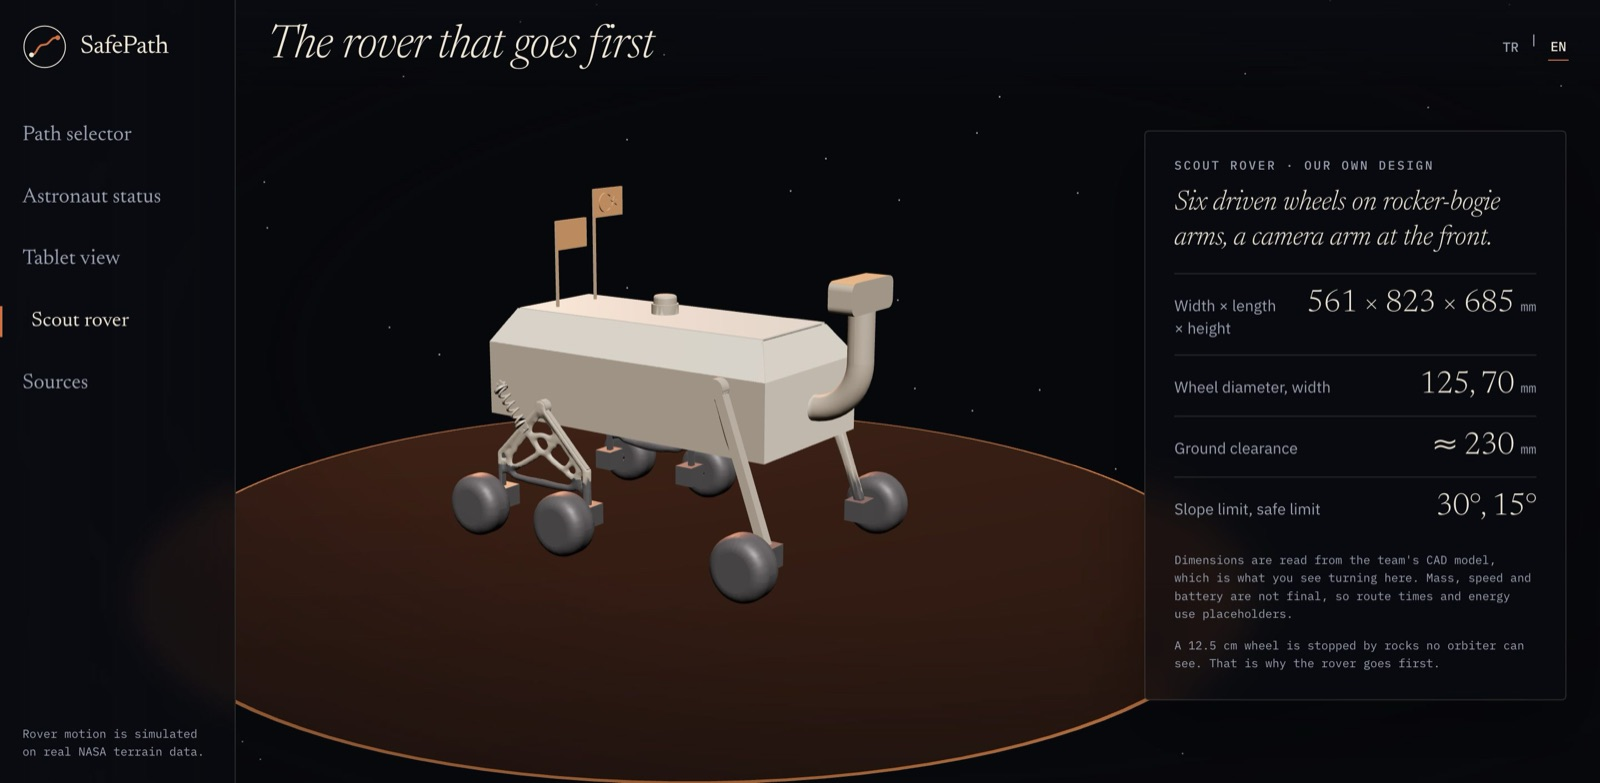
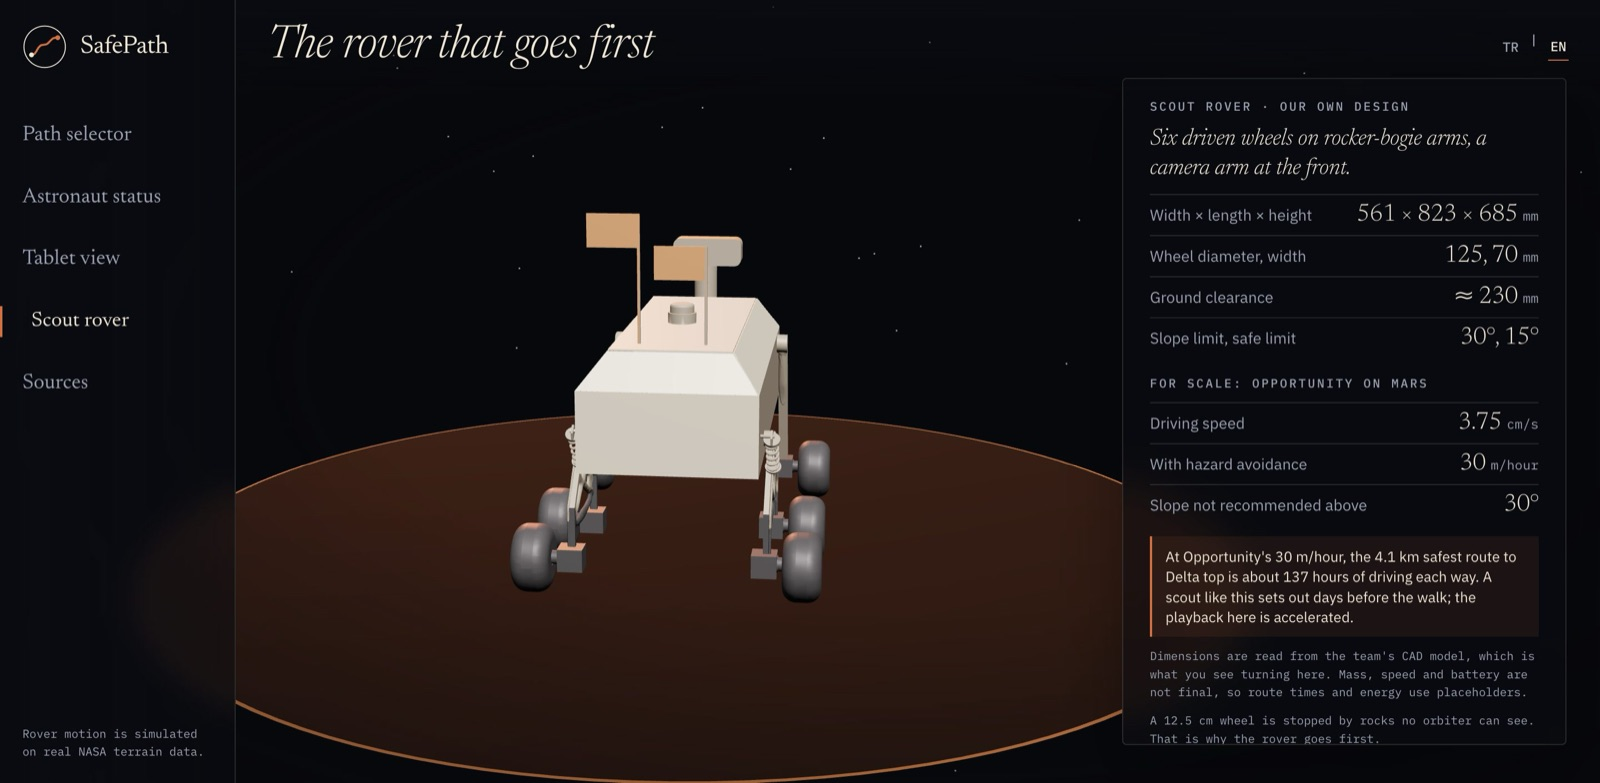
Gerçek rover karşılaştırması, görev saati ve yürüyüşe bağlı giysi göstergeleri
- Öncü rover: Opportunity'nin JPL makalesinden sürüş hızı, ilerleme hızı ve eğim sınırı; seçili rotanın gerçek sürüş süresi
- Rover sürüşünde hızlandırılmış oynatma etiketi ve görev saati
- Astronot: yürüyüş oynatması, oksijen ve giysi bataryası geçen süreye göre azalır
- Kaynakça: açılmayan Apollo belgesi linki arşiv kopyasıyla değiştirildi, JPL makalesi eklendi

diff --git a/web/app.js b/web/app.js
@@ -50,13 +50,18 @@ const I18N = {
     log_home_detour: 'Back at base. Detour +{d} m, recorded for the crew.',
     log_home: 'Back at base. No obstacle met on this route.',
     vitals_title: 'Suit telemetry', simulated: 'simulated',
-    v_breath: 'Breathing', v_heart: 'Heart rate', v_oxygen: 'Oxygen', v_battery: 'Suit battery', per_min: '/min',
+    v_breath: 'Breathing', v_heart: 'Heart rate', v_oxygen: 'Suit O₂ remaining', v_battery: 'Suit battery', per_min: '/min',
+    v_time: 'EVA elapsed', eva_play: 'Play the walk', eva_playing: 'Walking · accelerated playback', eva_replay: 'Play the walk again',
+    vitals_note: 'Oxygen and suit battery are drawn down over the 8 h suit design duration as the walk time passes. Heart rate and breathing are example values: at rest, then walking.',
+    clock: 'Accelerated playback · mission time T+{h}:{m} at the placeholder rover speed',
+    real_title: 'For scale: Opportunity on Mars', real_speed: 'Driving speed', real_rate: 'With hazard avoidance', real_mh: 'm/hour', real_slope: 'Slope not recommended above',
+    real_note: 'At Opportunity\'s 30 m/hour, the {km} km safest route to {target} is about {h} hours of driving each way. A scout like this sets out days before the walk; the playback here is accelerated.',
     sound_on: 'Breathing sound on', sound_off: 'Breathing sound off',
     photo_credit: 'Apollo 11, AS11-40-5903. NASA.',
     forecast_title: 'Expected at end of traverse', forecast_route: '{target}, {route} route',
     f_oxygen: 'Oxygen left', f_walk: 'Round trip on foot', f_battery: 'Rover battery left', f_dose: 'Radiation dose', hours: 'h',
-    verdict_ok: 'Within limits. The {r}% oxygen reserve is kept.',
-    verdict_risk: 'Outside limits. The {r}% oxygen reserve is not kept.',
+    verdict_ok: 'Projected O₂ reserve retained: more than {r}% left at the end.',
+    verdict_risk: 'Projected O₂ reserve breached: less than {r}% left at the end.',
     forecast_note: 'Oxygen uses an 8 h suit and Apollo walking speed. Rover battery uses placeholder numbers. Radiation is the mean absorbed dose rate Curiosity measured in Gale crater, 2012 to 2026.',
     no_target: 'Choose a target in Path selector first.',
     t_title: 'Along the route', t_slope: 'Slope °', t_elev: 'Elevation m', t_ground: 'Ground (TI)',
@@ -116,13 +121,18 @@ const I18N = {
     log_home_detour: 'Üsse dönüldü. Sapma +{d} m, mürettebat için kaydedildi.',
     log_home: 'Üsse dönüldü. Bu rotada engelle karşılaşılmadı.',
     vitals_title: 'Giysi telemetrisi', simulated: 'benzetim',
-    v_breath: 'Nefes', v_heart: 'Kalp ritmi', v_oxygen: 'Oksijen', v_battery: 'Giysi bataryası', per_min: '/dk',
+    v_breath: 'Nefes', v_heart: 'Kalp ritmi', v_oxygen: 'Kalan giysi O₂', v_battery: 'Giysi bataryası', per_min: '/dk',
+    v_time: 'Geçen yürüyüş süresi', eva_play: 'Yürüyüşü oynat', eva_playing: 'Yürüyor · hızlandırılmış', eva_replay: 'Yürüyüşü yeniden oynat',
+    vitals_note: 'Oksijen ve giysi bataryası, yürüyüş süresi ilerledikçe 8 saatlik giysi tasarım süresine göre azalır. Kalp ritmi ve nefes örnek değerlerdir: dinlenmede, sonra yürürken.',
+    clock: 'Hızlandırılmış oynatma · görev süresi T+{h}:{m} (varsayım rover hızıyla)',
+    real_title: 'Ölçek için: Mars\'ta Opportunity', real_speed: 'Sürüş hızı', real_rate: 'Engelden kaçınarak', real_mh: 'm/saat', real_slope: 'Önerilmeyen eğim',
+    real_note: 'Opportunity\'nin saatte 30 metresiyle, {target} hedefine {km} km\'lik en güvenli rota tek yön yaklaşık {h} saat sürüş demek. Böyle bir öncü, yürüyüşten günler önce yola çıkar; buradaki oynatma hızlandırılmıştır.',
     sound_on: 'Nefes sesi açık', sound_off: 'Nefes sesi kapalı',
     photo_credit: 'Apollo 11, AS11-40-5903. NASA.',
     forecast_title: 'Yürüyüş sonunda beklenen', forecast_route: '{target}, {route} rota',
     f_oxygen: 'Kalan oksijen', f_walk: 'Yürüyerek gidiş dönüş', f_battery: 'Kalan rover bataryası', f_dose: 'Radyasyon dozu', hours: 'sa',
-    verdict_ok: 'Sınırlar içinde. %{r} oksijen payı korunuyor.',
-    verdict_risk: 'Sınırların dışında. %{r} oksijen payı korunmuyor.',
+    verdict_ok: 'Öngörülen O₂ payı korunuyor: yürüyüş sonunda %{r}\'den fazlası kalıyor.',
+    verdict_risk: 'Öngörülen O₂ payı aşılıyor: yürüyüş sonunda %{r}\'den azı kalıyor.',
     forecast_note: 'Oksijen 8 saatlik giysi ve Apollo yürüme hızına göre. Rover bataryası varsayım değerlerle. Radyasyon, Curiosity\'nin Gale kraterinde 2012–2026 arasında ölçtüğü ortalama soğurulan doz hızı.',
     no_target: 'Önce Patika seçici\'den bir hedef seçin.',
     t_title: 'Yol boyu değerler', t_slope: 'Eğim °', t_elev: 'Yükseklik m', t_ground: 'Zemin (IA)',
@@ -167,7 +177,9 @@ const SOURCES = [
   ['crew', 'xEMU spacesuit testing', 'NASA Technical Reports Server',
     { en: 'The 8 hour suit duration behind the oxygen check.', tr: 'Oksijen kontrolündeki 8 saatlik giysi süresi.' }, 'https://ntrs.nasa.gov/citations/20240004887'],
   ['crew', 'Apollo lunar surface consumables document', 'NASA · Apollo Lunar Surface Journal',
-    { en: 'Planned walking speed of 3.3 km/h and the 20% walk-back reserve. Measured on the Moon.', tr: '3,3 km/saat planlanan yürüme hızı ve %20 dönüş payı. Ay\'da ölçüldü.' }, 'https://www.nasa.gov/wp-content/uploads/static/history/alsj/19790073512_1979073512.pdf'],
+    { en: 'Planned walking speed of 3.3 km/h and the 20% walk-back reserve. Measured on the Moon. NASA\'s original page has moved; the link is an archived copy.', tr: '3,3 km/saat planlanan yürüme hızı ve %20 dönüş payı. Ay\'da ölçüldü. NASA\'nın özgün sayfası taşındı; link arşiv kopyasıdır.' }, 'https://web.archive.org/web/20250721201910/https://www.nasa.gov/wp-content/uploads/static/history/alsj/19790073512_1979073512.pdf'],
+  ['crew', 'Mars Exploration Rover Surface Operations: Driving Opportunity at Meridiani Planum', 'Biesiadecki, J. J., et al. (2005) · NASA Jet Propulsion Laboratory',
+    { en: 'A real rover for scale: 3.75 cm/s driving speed, 30 m/hour with hazard avoidance, driving above 30° not recommended.', tr: 'Ölçek için gerçek bir rover: 3,75 cm/s sürüş hızı, engelden kaçınarak saatte 30 m, 30° üstünde sürüş önerilmiyor.' }, 'https://www-robotics.jpl.nasa.gov/media/documents/biesiadecki_driving05.pdf'],
   ['crew', 'Perseverance rover components', 'NASA Science',
     { en: 'Reference for rover slope limits: 45° without tipping, drivers avoid more than 30°.', tr: 'Rover eğim sınırları için başvuru: 45° devrilmeden dayanım, sürücüler 30° üstünden kaçınır.' }, 'https://science.nasa.gov/mission/mars-2020-perseverance/rover-components/'],
   ['method', 'D* Lite', 'Koenig, S. and Likhachev, M. (2002) · AAAI Conference on Artificial Intelligence',
@@ -196,7 +208,7 @@ const COLORS = { fastest: '#f2b33d', safest: '#5fd0b5', efficient: '#8fa8ff' };
 const SIZE = 1000;   // world units across the mission area (1 unit = 10 m)
 const RELIEF = 2;    // vertical exaggeration
 const JEZERO = { lat: 18.47, lon: 77.41 };
-const state = { view: 'path', phase: 'globe', target: null, routeId: 'safest', busy: false,
+const state = { view: 'path', phase: 'globe', target: null, routeId: 'safest', busy: false, clockMin: 0,
                 sound: true, obstacleMet: new Set(), drive: null };
 let mission, height;
 
@@ -484,7 +496,12 @@ function scenarioApplies() {
   return state.target.id === mission.scenario.target && state.routeId === mission.scenario.profile;
 }
 
+function drawRealNote() {
+  const tg = state.target ?? mission.targets[0], r = tg.routes.find((q) => q.id === 'safest');
+  $('spec-real').textContent = t('real_note', { km: (r.distance_m / 1000).toFixed(1), target: tg.name, h: Math.round(r.distance_m / 30) });
+}
 function drawPanels() {
+  drawRealNote();
   if (!state.target) {
     $('f-route').textContent = t('no_target'); $('t-route').textContent = t('no_target');
     return;
@@ -529,14 +546,17 @@ function log(key, vars, warn) {
   $('log').appendChild(p); $('log').hidden = false;
   while ($('log').children.length > 4) $('log').firstChild.remove();
 }
-function drive(points, seconds) {
+function drive(points, seconds, minutes = 0) {
   const cum = [0];
   for (let i = 1; i < points.length; i++) cum.push(cum[i - 1] + points[i].distanceTo(points[i - 1]));
-  return new Promise((done) => { state.drive = { points, cum, seconds, t: 0, done }; });
+  return new Promise((done) => { state.drive = { points, cum, seconds, minutes, t: 0, done }; });
 }
 function stepDrive(dt) {
   const d = state.drive; if (!d) return;
+  const before = d.t;
   d.t = Math.min(d.t + dt / d.seconds, 1);
+  state.clockMin += (d.t - before) * d.minutes;
+  $('clock').textContent = t('clock', { h: Math.floor(state.clockMin / 60), m: String(Math.floor(state.clockMin % 60)).padStart(2, '0') });
   const e = d.t < 0.5 ? 2 * d.t * d.t : 1 - 2 * (1 - d.t) * (1 - d.t);
   const s = e * d.cum[d.cum.length - 1];
   let i = 1; while (i < d.cum.length - 1 && d.cum[i] < s) i++;
@@ -559,14 +579,16 @@ async function sendRover() {
   const r = route(), sc = mission.scenario, key = state.target.id + r.id;
   const out = toPoints(r.cells, 1.5, 2);
   rover.visible = true; rover.position.copy(out[0]);
+  state.clockMin = 0; $('clock').hidden = false;
   log('log_depart', { route: t(r.id).toLowerCase() });
-  await drive(out, 7);
+  await drive(out, 7, r.rover_time_min);
   log('log_arrive', { target: state.target.name, km: (r.distance_m / 1000).toFixed(2), deg: r.max_slope_deg.toFixed(1) });
   await wait(900);
   log('log_return');
   if (scenarioApplies()) {
     const hit = sc.driven_cells.findIndex((c) => c[0] === sc.first_detection_cell[0] && c[1] === sc.first_detection_cell[1]);
-    await drive(toPoints(sc.driven_cells.slice(0, hit + 1), 1.5, 2), 2.6);
+    const back = r.rover_time_min * sc.driven_distance_m / sc.planned_distance_m, share = hit / sc.driven_cells.length;
+    await drive(toPoints(sc.driven_cells.slice(0, hit + 1), 1.5, 2), 2.6, back * share);
     obstacle.visible = true; state.obstacleMet.add(key);
     log('log_obstacle', {}, true);
     await wait(1100);
@@ -577,10 +599,10 @@ async function sendRover() {
     detour.renderOrder = 4; extraGroup.add(detour); reveal(detour, '#ffffff', 0, 1.1);
     log('log_replan', { n: sc.replans, s: sc.repair_total_s.toFixed(2), f: sc.fresh_plan_at_first_detection_s.toFixed(2) });
     await wait(900);
-    await drive(toPoints(sc.driven_cells.slice(hit), 1.5, 2), 6);
+    await drive(toPoints(sc.driven_cells.slice(hit), 1.5, 2), 6, back * (1 - share));
     log('log_home_detour', { d: sc.driven_distance_m - sc.planned_distance_m });
   } else {
-    await drive(out.slice().reverse(), 7);
+    await drive(out.slice().reverse(), 7, r.rover_time_min);
     log('log_home');
   }
   state.busy = false; $('send').disabled = false; $('send').textContent = t('send_rover');
@@ -624,7 +646,7 @@ const metres = (lat1, lon1, lat2, lon2) => {
   return Math.hypot((lat2 - lat1) * k * R, (lon2 - lon1) * k * R * Math.cos(lat1 * k));
 };
 function refreshTarget(reframe) {
-  drawRoutes(reframe); drawLedger(reframe); drawPanels(); setPrompt();
+  drawRoutes(reframe); drawLedger(reframe); drawPanels(); setPrompt(); resetEva();
   if (reframe) frameRoute();
 }
 function setPrompt() {
@@ -684,18 +706,24 @@ function sound(on) {
   if (!audio) return;
   if (on) { audio.ctx.resume(); breathe(); breathTimer = setInterval(breathe, 4600); } else audio.ctx.suspend();
 }
-let vitalsClock = 0, suitOxygen = 96, suitBattery = 91, beat = 0;
-function stepVitals(dt, now) {
-  vitalsClock += dt;
-  if (vitalsClock > 1) {
-    vitalsClock = 0;
-    suitOxygen = Math.max(suitOxygen - 0.004, 20); suitBattery = Math.max(suitBattery - 0.003, 20);
-    $('v-heart').textContent = Math.round(78 + 4 * Math.sin(now / 9000) + (Math.random() - 0.5) * 3);
-    $('v-breath').textContent = 13 + (Math.random() < 0.2 ? 1 : 0);
-    $('v-oxygen').textContent = suitOxygen.toFixed(1); $('v-battery').textContent = suitBattery.toFixed(1);
+// The walk is replayed on an accelerated clock; suit consumables follow the elapsed walk time.
+const eva = { p: 0, playing: false };
+const EVA_SECONDS = 18;
+let beat = 0;
+function resetEva() { eva.p = 0; eva.playing = false; $('eva-play').textContent = t('eva_play'); }
+function stepVitals(dt) {
+  if (eva.playing) {
+    eva.p = Math.min(eva.p + dt / EVA_SECONDS, 1);
+    if (eva.p >= 1) { eva.playing = false; $('eva-play').textContent = t('eva_replay'); }
   }
+  const hours = state.target ? eva.p * route().round_trip_walk_h : 0;
+  const left = Math.max(100 - hours / mission.crew.oxygen_h * 100, 0);
+  const heart = eva.playing ? 100 : 76;
+  $('v-time').textContent = `${Math.floor(hours)}:${String(Math.floor(hours % 1 * 60)).padStart(2, '0')}`;
+  $('v-heart').textContent = heart; $('v-breath').textContent = eva.playing ? 20 : 14;
+  $('v-oxygen').textContent = left.toFixed(1); $('v-battery').textContent = left.toFixed(1);
   const c = $('ecg'), x = c.getContext('2d'), w = c.width, h = c.height;
-  beat += dt * 1.3;
+  beat += dt * heart / 60;
   x.clearRect(0, 0, w, h); x.beginPath(); x.strokeStyle = '#c8693b'; x.lineWidth = 2;
   for (let px = 0; px < w; px += 2) {
     const p = ((px / 150 + beat) % 1 + 1) % 1;
@@ -742,6 +770,7 @@ function setLang(next) {
   document.querySelectorAll('[data-lang]').forEach((b) => b.classList.toggle('is-active', b.dataset.lang === next));
   document.querySelectorAll('[data-i18n]').forEach((el) => { el.textContent = t(el.dataset.i18n); });
   $('sound').firstElementChild.textContent = t(state.sound ? 'sound_on' : 'sound_off');
+  $('eva-play').textContent = t(eva.playing ? 'eva_playing' : eva.p >= 1 ? 'eva_replay' : 'eva_play');
   $('go').textContent = t(state.phase === 'terrain' ? 'coords_show' : 'coords_go');
   fillTargets(); setLegend(); setPrompt(); drawSources();
   if (state.target && state.phase === 'terrain') { drawLedger(); }
@@ -762,7 +791,7 @@ function frame(now) {
     siteMark.material.opacity = 0.55 + 0.45 * Math.sin(now / 350);
     renderer.render(globeScene, globeCam);
   } else if (state.view === 'astronaut') {
-    loneStars.rotation.y += dt * 0.01; stepVitals(dt, now);
+    loneStars.rotation.y += dt * 0.01; stepVitals(dt);
     renderer.render(starScene, globeCam);
   } else if (state.view === 'sources') {
     loneStars.rotation.y += dt * 0.006;
@@ -806,6 +835,10 @@ async function start() {
   $('back').addEventListener('click', () => { if (!state.busy) setPhase('globe'); });
   $('layer-slope').addEventListener('change', (e) => { overlaySlope.visible = e.target.checked; setLegend(); });
   $('layer-thermal').addEventListener('change', (e) => { overlayThermal.visible = e.target.checked; setLegend(); });
+  $('eva-play').addEventListener('click', () => {
+    if (!state.target) return;
+    eva.p = 0; eva.playing = true; $('eva-play').textContent = t('eva_playing');
+  });
   $('sound').addEventListener('click', () => {
     state.sound = !state.sound; $('sound').setAttribute('aria-pressed', state.sound);
     $('sound').firstElementChild.textContent = t(state.sound ? 'sound_on' : 'sound_off'); sound(state.sound);
@@ -814,6 +847,7 @@ async function start() {
   document.querySelectorAll('[data-lang]').forEach((b) => b.addEventListener('click', () => setLang(b.dataset.lang)));
   new ResizeObserver(fit).observe(document.body);
   window.addEventListener('resize', () => { fit(); if (state.target && state.phase === 'terrain') drawLedger(); });
+  setLang(lang);
   setView('path');
   requestAnimationFrame(frame);
 }

diff --git a/web/styles.css b/web/styles.css
@@ -178,6 +178,7 @@ body:not(.started) :is(.rail, .bar, .glass, .log) { opacity: 0 !important; anima
 .log p { opacity: .5; }
 .log p:last-child { opacity: 1; }
 .log .warn { color: var(--alert); }
+.clock { position: absolute; left: 320px; top: 14px; padding: 8px 13px; font: 500 11px/1 var(--mono); letter-spacing: .12em; text-transform: uppercase; color: var(--dust); border: 1px solid var(--rust); border-radius: 999px; background: rgba(var(--ink), .7); }
 
 .ledger { position: absolute; left: 22px; right: 22px; bottom: 18px; padding: 12px 22px 10px; border-radius: 4px; animation: rise .9s .15s both; }
 .ledger-head { display: flex; justify-content: space-between; align-items: center; gap: 16px; margin-bottom: 6px; }
@@ -230,6 +231,9 @@ dd small { font: 400 12px/1 var(--mono); letter-spacing: 0; color: var(--muted);
 #ecg { width: 100%; height: 58px; margin-top: 12px; border-top: 1px solid var(--hair); border-bottom: 1px solid var(--hair); }
 .sound { margin-top: 14px; font: 400 11.5px/1 var(--mono); letter-spacing: .06em; color: var(--muted); border: 1px solid var(--hair); border-radius: 999px; padding: 9px 14px; }
 .sound[aria-pressed="true"] { color: var(--dust); border-color: var(--rust); }
+.vitals-actions { display: flex; flex-wrap: wrap; gap: 8px; margin-top: 14px; }
+.vitals-actions .sound { margin-top: 0; }
+#eva-play { color: var(--dust); border-color: var(--dust); }
 .forecast-route { margin-top: 10px; font: italic 300 25px/1.2 var(--display); letter-spacing: -.01em; }
 .verdict { margin-top: 16px; padding: 11px 13px; font: 500 13px/1.4 var(--sans); border-left: 2px solid var(--safe); background: rgba(95, 208, 181, .09); }
 .verdict.is-risk { border-color: var(--alert); background: rgba(239, 82, 87, .1); }
@@ -266,9 +270,15 @@ dd small { font: 400 12px/1 var(--mono); letter-spacing: 0; color: var(--muted);
 .t-reason { font-size: 13px; color: var(--dust); }
 
 /* ── scout rover ───────────────────────────────────────── */
-.spec { position: absolute; right: 30px; top: 50%; transform: translateY(-54%); width: min(380px, 34vw); padding: 24px 26px; border-radius: 4px; }
-.spec-lead { margin-top: 12px; font: italic 300 25px/1.25 var(--display); letter-spacing: -.01em; }
-.spec dd { font-size: 28px; }
+.spec { position: absolute; right: 30px; top: 50%; transform: translateY(-54%); width: min(400px, 36vw); padding: 18px 24px; border-radius: 4px; }
+.spec-sub { margin-top: 16px; }
+.spec-real { margin-top: 10px; padding: 9px 12px; font-size: 13px; line-height: 1.4; border-left: 2px solid var(--rust); background: rgba(210, 112, 63, .09); }
+.spec { max-height: calc(100% - 20px); overflow-y: auto; scrollbar-width: thin; }
+.spec-lead { margin-top: 10px; font: italic 300 21px/1.25 var(--display); letter-spacing: -.01em; }
+.spec dd { font-size: 22px; }
+.spec dl { margin-top: 10px; }
+.spec dl > div { padding: 7px 0; }
+.spec .fine { margin-top: 9px; }
 
 /* ── sources ───────────────────────────────────────────── */
 .sources { position: absolute; inset: 6px 22px 20px 22px; padding: 6px 30px 26px; border-radius: 4px; overflow-y: auto; scrollbar-width: thin; scrollbar-color: var(--hair) transparent; }
@@ -311,6 +321,7 @@ dd small { font: 400 12px/1 var(--mono); letter-spacing: 0; color: var(--muted);
   .t-table th:nth-child(n+5), .t-table td:nth-child(n+5) { display: none; }
   .t-note { display: none; }
   .spec { margin-top: 52dvh; }
+  .clock { position: relative; left: auto; top: auto; margin: 12px; display: inline-block; }
   .sources { position: relative; inset: auto; margin: 12px; padding: 4px 16px 18px; overflow: visible; }
   .src-row { grid-template-columns: 1fr; gap: 6px; }
 }

diff --git a/web/index.html b/web/index.html
@@ -89,6 +89,7 @@
         <button type="button" class="back" id="back" data-i18n="back_globe">← Mars</button>
       </div>
 
+      <p class="clock" id="clock" hidden></p>
       <div class="log" id="log" aria-live="polite" hidden></div>
 
       <div class="ledger glass" id="ledger" hidden>
@@ -112,13 +113,18 @@
         <div class="vitals glass">
           <p class="eyebrow"><span data-i18n="vitals_title">Suit telemetry</span> <span class="sim" data-i18n="simulated">simulated</span></p>
           <dl>
+            <div><dt data-i18n="v_time">EVA elapsed</dt><dd><span id="v-time">0:00</span> <small data-i18n="hours">h</small></dd></div>
             <div><dt data-i18n="v_breath">Breathing</dt><dd><span id="v-breath">13</span> <small data-i18n="per_min">/min</small></dd></div>
             <div><dt data-i18n="v_heart">Heart rate</dt><dd><span id="v-heart">78</span> <small>bpm</small></dd></div>
             <div><dt data-i18n="v_oxygen">Oxygen</dt><dd><span id="v-oxygen">96.0</span> <small>%</small></dd></div>
             <div><dt data-i18n="v_battery">Suit battery</dt><dd><span id="v-battery">91.0</span> <small>%</small></dd></div>
           </dl>
           <canvas id="ecg" width="640" height="90" aria-hidden="true"></canvas>
-          <button class="sound" id="sound" aria-pressed="true"><span data-i18n="sound_on">Breathing sound on</span></button>
+          <div class="vitals-actions">
+            <button class="sound" id="eva-play" data-i18n="eva_play">Play the walk</button>
+            <button class="sound" id="sound" aria-pressed="true"><span data-i18n="sound_on">Breathing sound on</span></button>
+          </div>
+          <p class="fine" data-i18n="vitals_note"></p>
         </div>
 
         <div class="forecast glass">
@@ -188,6 +194,13 @@
           <div><dt data-i18n="spec_clear">Ground clearance</dt><dd>≈ 230 <small>mm</small></dd></div>
           <div><dt data-i18n="spec_slope">Slope limit, safe limit</dt><dd>30°, 15°</dd></div>
         </dl>
+        <p class="eyebrow spec-sub" data-i18n="real_title">For scale: Opportunity on Mars</p>
+        <dl>
+          <div><dt data-i18n="real_speed">Driving speed</dt><dd>3.75 <small>cm/s</small></dd></div>
+          <div><dt data-i18n="real_rate">With hazard avoidance</dt><dd>30 <small data-i18n="real_mh">m/hour</small></dd></div>
+          <div><dt data-i18n="real_slope">Slope not recommended above</dt><dd>30°</dd></div>
+        </dl>
+        <p class="spec-real" id="spec-real"></p>
         <p class="fine" data-i18n="spec_note">Dimensions are read from the team's CAD model, which is what you see turning here. Mass, speed and battery are not final, so route times and energy use placeholders.</p>
         <p class="fine" data-i18n="spec_scale">A 12.5 cm wheel is stopped by rocks no orbiter can see. That is why the rover goes first.</p>
       </div>

diff --git a/README.md b/README.md
@@ -171,7 +171,9 @@ including replanning after hidden obstacles appear.
 | Rover mass, speed, battery, power use | Placeholders until the rover design is final |
 | Thermal inertia to rolling resistance mapping | Placeholder |
 | Crew walking speed, EVA duration, reserve | Sourced, but measured for lunar suits |
-| Suit telemetry (heart rate, breathing) | Simulated |
+| Suit oxygen and battery | Drawn down over the 8 hour suit design duration as the walk time passes |
+| Heart rate and breathing | Example values, at rest and walking |
+| Playback speed | Accelerated. At Opportunity's 30 m/hour the 4.1 km route is about 137 hours of driving each way |
 | Basemap colour | Display tint; the CTX camera records a single band |
 
 Times and energy values depend on the placeholder rover numbers and should not be
@@ -268,7 +270,12 @@ or brand elements.
 - NASA. Perseverance rover components.
   https://science.nasa.gov/mission/mars-2020-perseverance/rover-components/
 - NASA. Apollo consumables document (planned walking speed, walk-back reserve).
-  https://www.nasa.gov/wp-content/uploads/static/history/alsj/19790073512_1979073512.pdf
+  https://web.archive.org/web/20250721201910/https://www.nasa.gov/wp-content/uploads/static/history/alsj/19790073512_1979073512.pdf
+  (archived copy; NASA's original page has moved)
+- Biesiadecki, J. J., et al. (2005). Mars Exploration Rover Surface Operations:
+  Driving Opportunity at Meridiani Planum. NASA Jet Propulsion Laboratory. Real rover
+  for scale: 3.75 cm/s, 30 m/hour with hazard avoidance, above 30 degrees not recommended.
+  https://www-robotics.jpl.nasa.gov/media/documents/biesiadecki_driving05.pdf
 - NASA. xEMU testing (8 hour EVA design requirement).
   https://ntrs.nasa.gov/citations/20240004887
 - Koenig, S., and Likhachev, M. (2002). D* Lite. Proceedings of the AAAI
